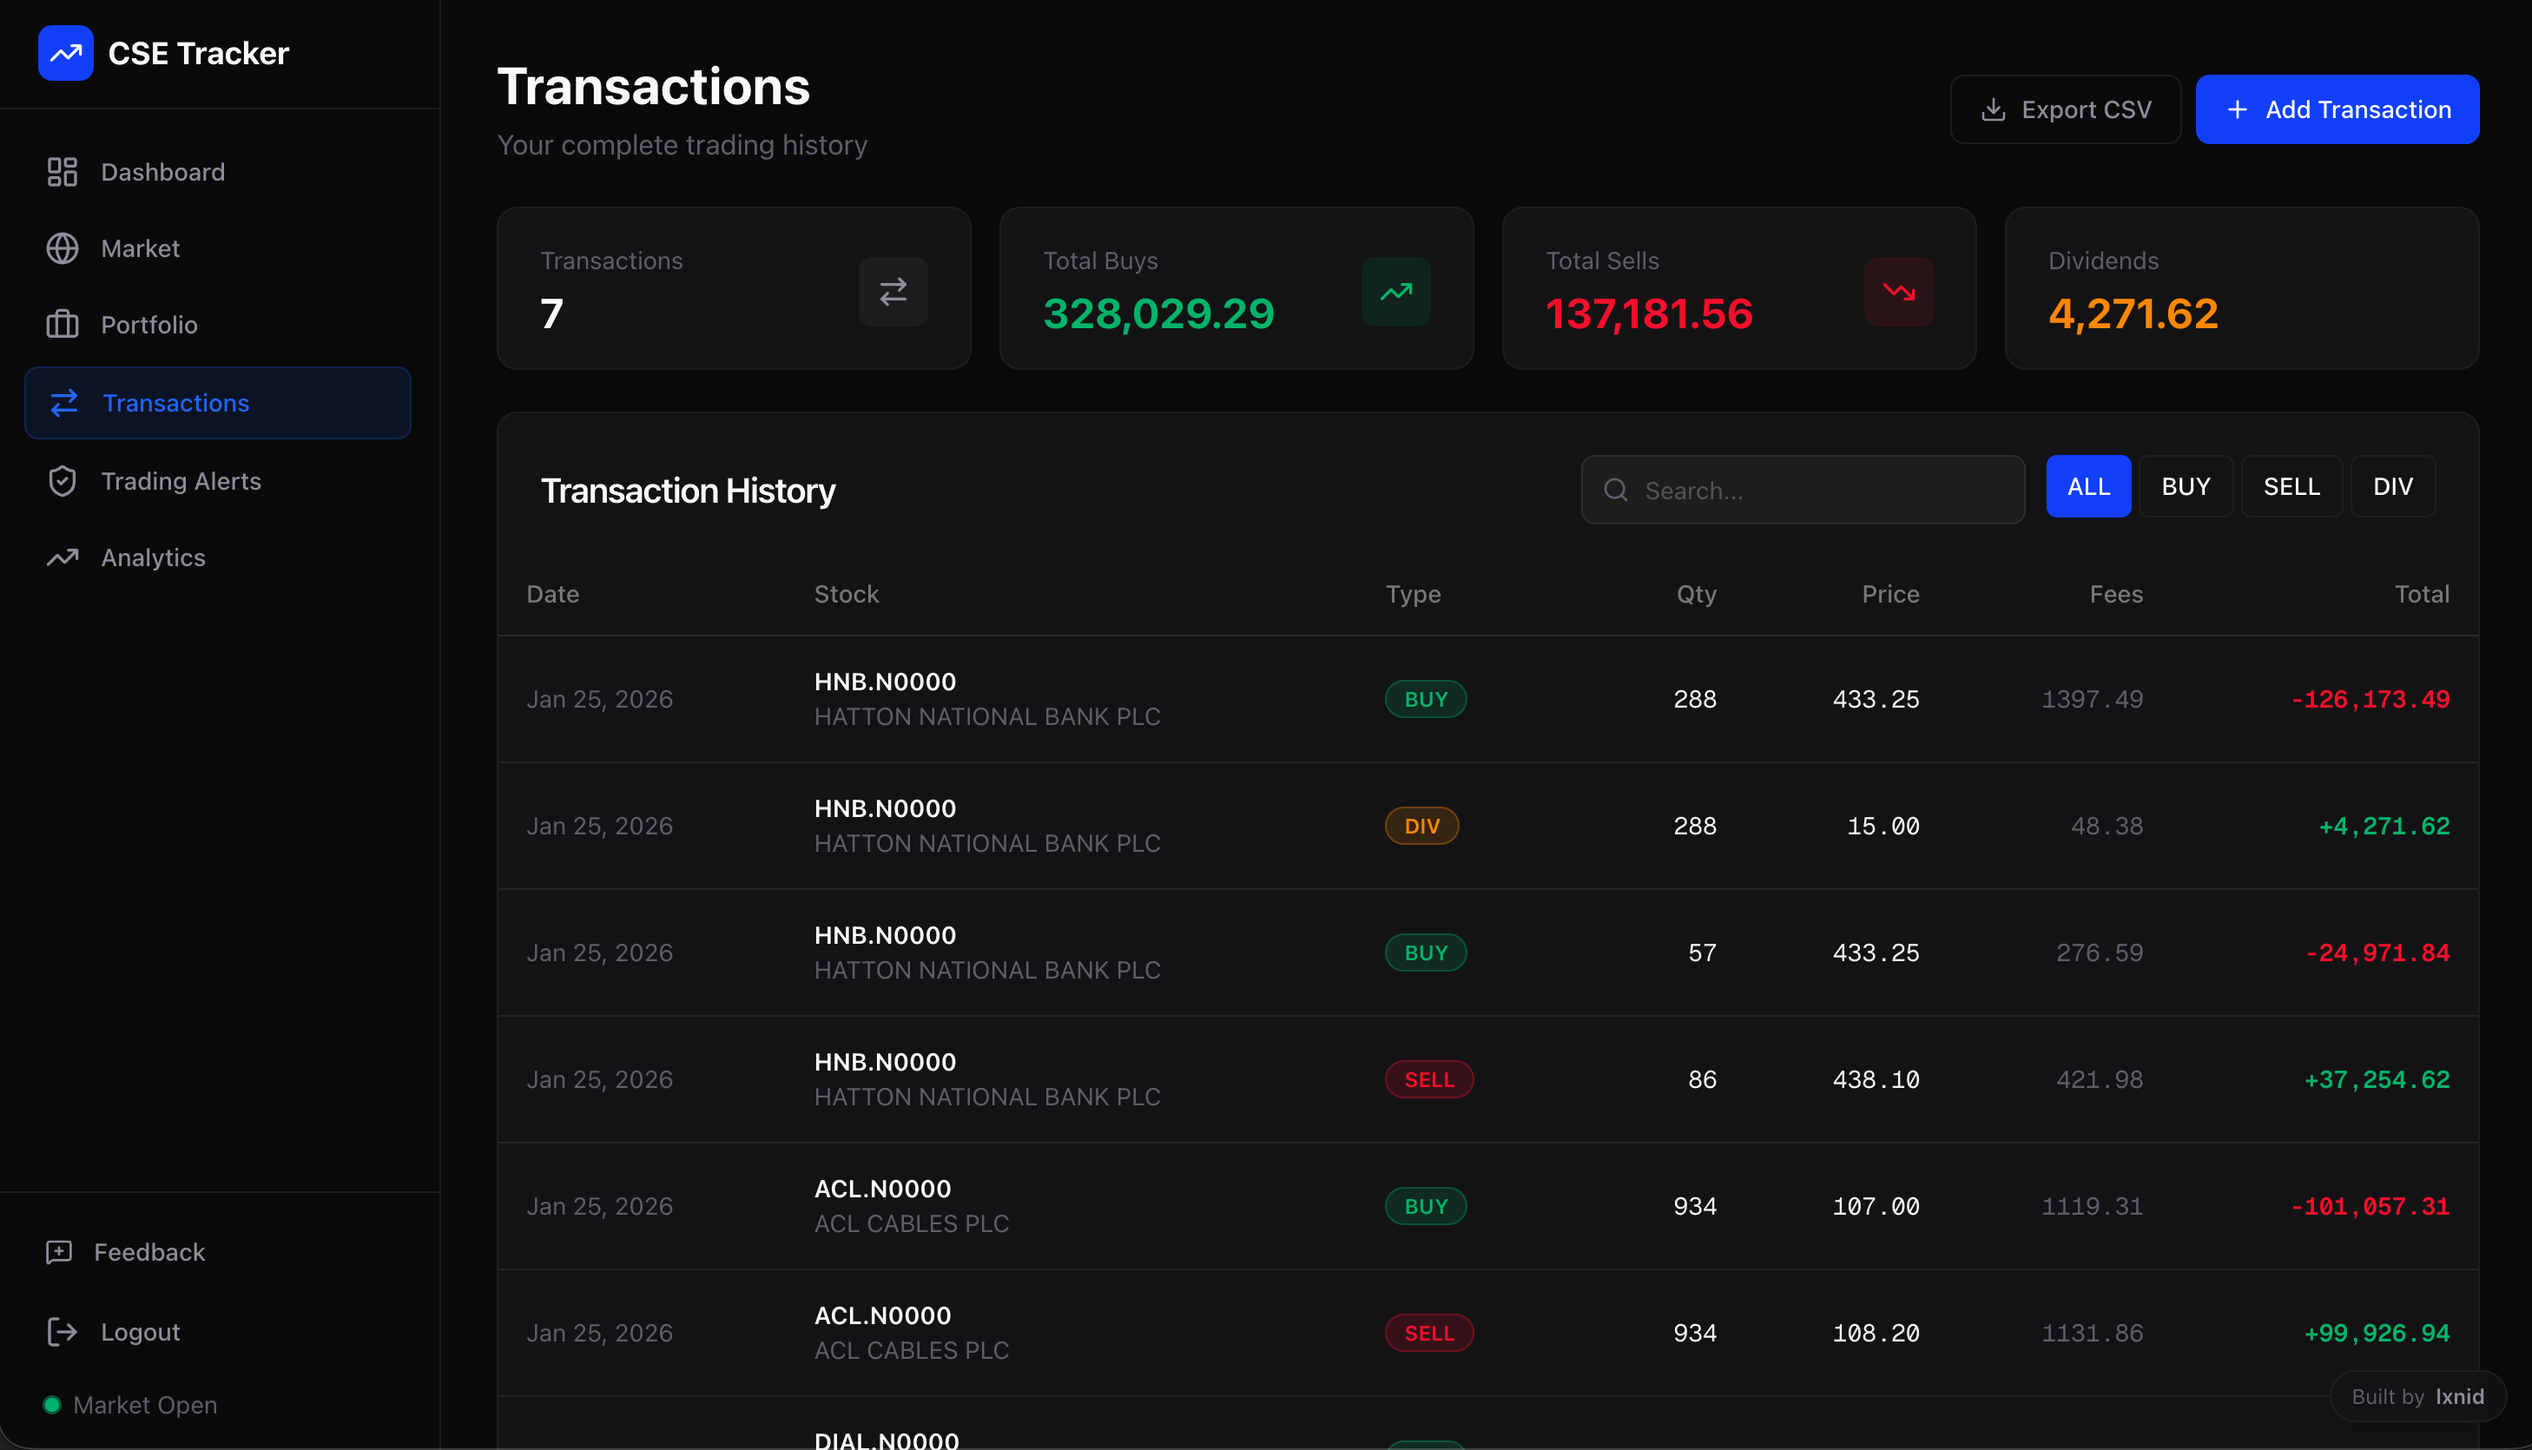
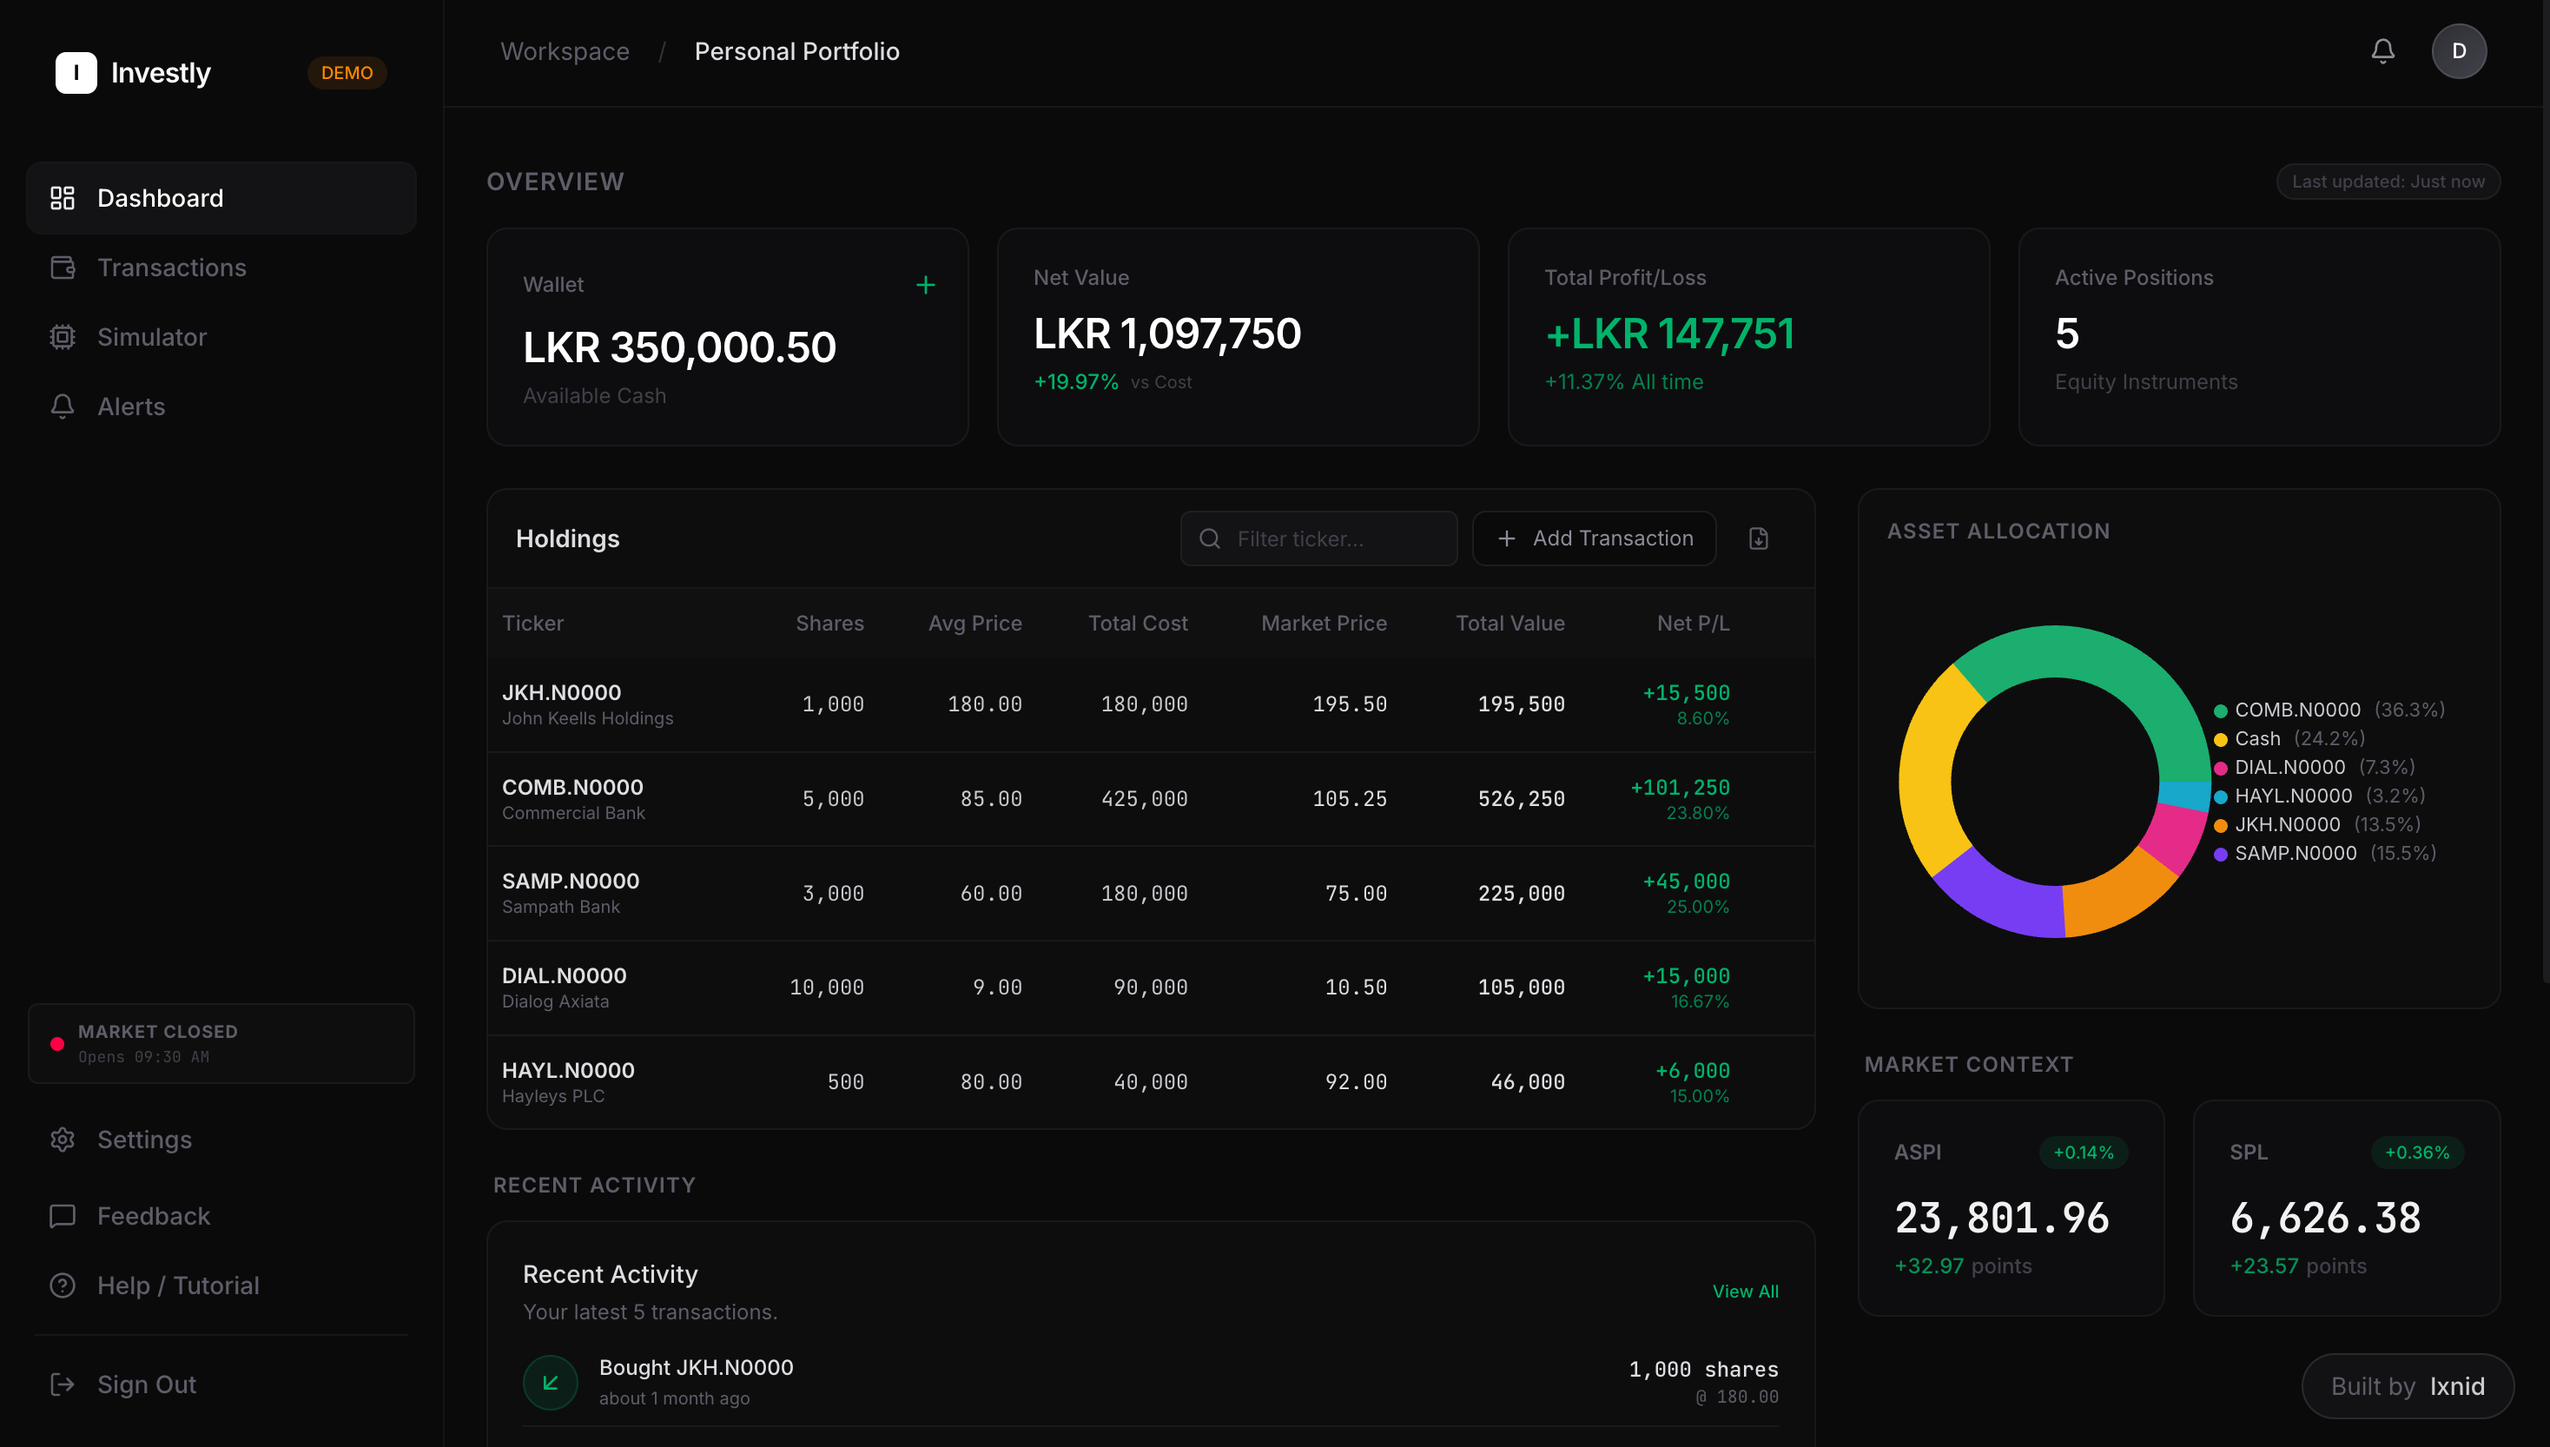
docs: update Investly project entry with a revised title, headline, description, technologies, and associated images.

diff --git a/src/data/projects.ts b/src/data/projects.ts
@@ -66,56 +66,63 @@ export const projects: Project[] = [
     ],
   },
   {
-    id: 7, // Adjust ID as needed based on your sequence
+    id: 7,
     galleryImage: "workImages/invest_tracker/dashboard.png",
-    title: "Investment Portfolio Tracker",
+    title: "Investly — CSE Portfolio Tracker",
     date: "2025 - Present",
     headline:
-      "A security-first, algorithmic trading journal and risk manager for the Colombo Stock Exchange, built to enforce discipline over emotion.",
+      "A real-time portfolio tracker for the Colombo Stock Exchange, built to replace spreadsheets with precision.",
     image: "workImages/invest_tracker/main-min.jpg",
-    secondaryImage: "workImages/invest_tracker/main-min.png",
+    secondaryImage: "workImages/invest_tracker/main-min.jpg",
     link: "https://portfolio.dinilr.com",
-    githubUrl: "https://github.com/lxnid/invest-portfolio-tracker",
+    githubUrl: "https://github.com/lxnid/cse-portfolio-manager",
     description:
-      "As a Computer Science student entering the Colombo Stock Exchange (CSE), I found existing platforms like Atrad powerful for execution but lacking in strategic guidance. For a beginner, the dashboards were overwhelming, and the absence of clear performance metrics made it difficult to learn from mistakes. I didn't want to just trade; I wanted to master the market. This project is my answer—a robust, modern application that serves as my personal Risk Manager and daily driver for investment decisions, treating trading as a serious engineering problem rather than a gamble.",
+      "As a Computer Science student entering the Colombo Stock Exchange (CSE), I found existing platforms powerful for execution but overwhelming for strategy. Dashboards were cluttered, performance metrics were buried, and there was no way to plan before committing capital. I didn't want to just trade—I wanted to understand. Investly is the answer: a minimalist, real-time portfolio tracker I built to be my daily driver. It's not a demo. It's what I use every trading day.",
     technologies: [
       "Next.js 16",
       "React 19",
-      "Tailwind CSS 4",
-      "Cloudflare Workers",
-      "Drizzle ORM",
-      "Neon Database",
-      "TanStack Query",
-      "Recharts",
       "TypeScript",
+      "Tailwind CSS 4",
+      "Supabase",
+      "Drizzle ORM",
+      "Framer Motion",
+      "Recharts",
+      "Zod",
+      "Vercel",
     ],
     role: "Full-Stack Engineer & Product Owner",
     sections: [
       {
-        title: "The Problem: Data Without Direction",
+        title: "The Problem: Complexity Without Clarity",
         content: [
-          "Entering the stock market often feels like stepping into a cockpit without a manual. The available tools provided raw data but offered no insight into portfolio health or risk exposure. I needed a system that would prevent emotional decision-making—a platform that could track not just *what* I bought, but *why* I bought it.",
-          "The goal was to build a 'Security-First' architecture that ensures total data sovereignty. Unlike public trackers, this system keeps sensitive financial data private while offering advanced analytics that rival professional terminals.",
+          "Existing CSE platforms give you raw data but no direction. I needed a tool that answered simple questions: What's my P&L right now? How much cash is free? What happens if I enter this stock at three different price points?",
+          "Spreadsheets worked until they didn't. Manual tracking meant stale data, calculation errors, and no visibility into sector allocation. I wanted a single dashboard that could do it all—live.",
         ],
       },
       {
-        title: "Engineering the Solution",
+        title: "Building for Myself",
         content: [
-          "I engineered a custom 'Real-Time Data Engine' capable of interacting with the CSE market data resiliently. This involved building a robust API client with exponential backoff and retry logic to handle network instability and rate limits gracefully—ensuring I never trade on stale data.",
-          "To enforce discipline, I built a proprietary 'Rule Engine' that algorithmically checks every potential trade against my defined Stop Loss, Position Sizing, and Sector Limits. The system calculates a dynamic 'Discipline Score' (0-100%), gamifying adherence to my strategy and objectively measuring my improvement as a trader.",
+          "Investly started as a personal tool, which shaped every design decision. The dashboard shows four core metrics at a glance: Wallet (available cash), Net Value (holdings at market price), Total P&L, and Active Positions. Data updates in real-time via Supabase Realtime subscriptions—no refresh needed.",
+          "I added a Portfolio Simulator where I can plan trades before committing capital. It supports tranche-based entries, calculates fees, rounds share quantities to CSE lot sizes, and shows me the exact cost breakdown before I execute.",
         ],
       },
       {
-        title: "Technical Challenges & Architecture",
+        title: "Technical Architecture",
         content: [
-          "The application mimics a microservices architecture using Next.js on Cloudflare Workers (OpenNext). This edge-first approach ensures low-latency global access, critical for a financial tool. I utilized Neon (Serverless Postgres) with Drizzle ORM to handle complex relational data like transaction histories and historical portfolio snapshots without the overhead of managing a traditional database server.",
-          "One of the biggest technical hurdles was ensuring chart accuracy. I integrated advanced TradingView charts for technical analysis directly within the dashboard, creating a seamless workflow where analysis and journaling happen in one place. I also implemented a 'Portfolio Simulator', a sandbox environment that allows me to paper-trade strategies before deploying real capital.",
+          "The frontend is built with Next.js 16 and React 19, deployed on Vercel. Supabase handles authentication (Google OAuth), the PostgreSQL database, and real-time price broadcasting. Drizzle ORM provides type-safe database access with relational queries.",
+          "Market data is ingested by a separate collector service that updates the symbols table. Supabase Realtime then pushes these updates to all connected clients via WebSocket channels. The holdings are computed server-side using a Postgres view that aggregates BUY/SELL transactions automatically.",
         ],
       },
       {
-        title: "DevOps & CI/CD",
+        title: "Key Features",
+        content: [
+          "Real-time dashboard with live CSE prices and instant P&L calculations. Full transaction history (BUY, SELL, DEPOSIT, WITHDRAWAL, DIVIDEND) with search, filtering, and CSV export. Portfolio Simulator with tranche support and fee calculations. Price Alerts to notify when a stock hits your target. Sector allocation visualization via Recharts. Guest Mode for instant demo access without signup.",
+        ],
+      },
+      {
+        title: "Lessons Learned",
         content:
-          "Availability and reliability are non-negotiable for a daily-driver app. I implemented a rigorous CI/CD pipeline using GitHub Actions that automates type-checking, linting, and deployment to Cloudflare Pages. This ensures that every feature—from the CSV export engine to the sector performance widgets—is production-ready before it merges. The stack choices (TypeScript, Zod for validation, React 19) reflect a commitment to type safety and reducing runtime errors in a financial context.",
+          "Building for yourself changes everything. When your own money is on the line, you write better code. TypeScript with Zod validation became non-negotiable—one decimal error breaks your P&L. Handling stale data, market closures, and rate limits taught me defensive programming I'd never have learned from tutorials. And shipping early, even when it felt unpolished, gave me the feedback loop that shaped every feature since.",
       },
     ],
   },
